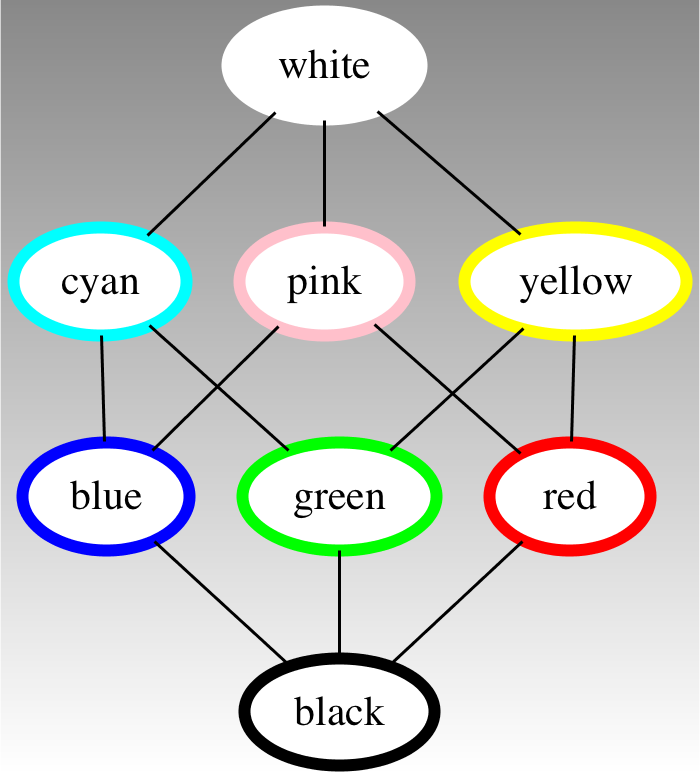
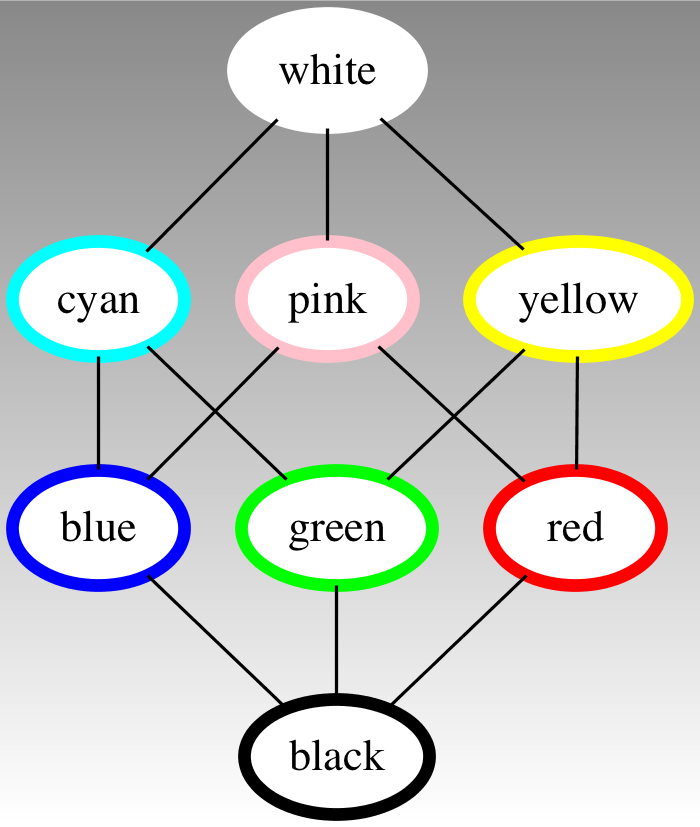
try native dot engine first, improve error handling for it

diff --git a/src/main/java/guru/nidi/graphviz/engine/GraphvizCmdLineEngine.java b/src/main/java/guru/nidi/graphviz/engine/GraphvizCmdLineEngine.java
@@ -37,9 +37,8 @@ import java.util.Optional;
 public class GraphvizCmdLineEngine extends AbstractGraphvizEngine {
     private static final Logger LOG = LoggerFactory.getLogger(AbstractGraphvizEngine.class);
 
-    private CommandRunner cmdRunner;
-    private String envPath;
-    private DefaultExecutor executor;
+    private final String envPath;
+    private final CommandRunner cmdRunner;
 
     private String dotOutputFilePath;
     private String dotOutputFileName;
@@ -55,11 +54,6 @@ public class GraphvizCmdLineEngine extends AbstractGraphvizEngine {
     public GraphvizCmdLineEngine(EngineInitListener engineInitListener, String envPath, DefaultExecutor executor) {
         super(false, engineInitListener);
         this.envPath = envPath;
-        this.executor = executor;
-    }
-
-    @Override
-    protected void doInit() throws GraphvizException {
         cmdRunner = new CommandBuilder()
                 .withShellWrapper(true)
                 .withCommandExecutor(executor)
@@ -67,9 +61,15 @@ public class GraphvizCmdLineEngine extends AbstractGraphvizEngine {
     }
 
     @Override
+    protected void doInit() throws GraphvizException {
+        if (!CommandRunner.isExecutableFound("dot", envPath)) {
+            throw new GraphvizException("'dot' command not found");
+        }
+    }
+
+    @Override
     protected String doExecute(String src, Options options) {
         final String engine = getEngineFromOptions(options);
-
         if (!CommandRunner.isExecutableFound(engine, envPath)) {
             throw new GraphvizException(engine + " command not found");
         }
@@ -88,10 +88,7 @@ public class GraphvizCmdLineEngine extends AbstractGraphvizEngine {
             // Run the command
             final String command = engine + " -T" + getFormatFromOptions(options)
                     + " " + dotfile.getAbsolutePath() + " -ooutfile.svg";
-            final int status = cmdRunner.exec(command, tempDirPath.toFile());
-            if (status != 0) {
-                throw new GraphvizException("Dot command didn't succeed");
-            }
+            cmdRunner.exec(command, tempDirPath.toFile());
 
             // Read output file from temp folder
             final byte[] encoded = Files.readAllBytes(tempDirPath.resolve("outfile.svg"));
@@ -99,8 +96,8 @@ public class GraphvizCmdLineEngine extends AbstractGraphvizEngine {
             FileUtils.deleteDirectory(tempDirPath.toFile());
 
             return new String(encoded, StandardCharsets.UTF_8);
-        } catch (IOException e) {
-            throw new GraphvizException("Failed to execute dot command", e);
+        } catch (IOException | InterruptedException e) {
+            throw new GraphvizException(e.getMessage(), e);
         }
     }
 

diff --git a/src/test/java/guru/nidi/graphviz/CodeAnalysisTest.java b/src/test/java/guru/nidi/graphviz/CodeAnalysisTest.java
@@ -41,6 +41,7 @@ import guru.nidi.graphviz.engine.GraphvizServerEngine;
 import guru.nidi.graphviz.engine.GraphvizV8Engine;
 import guru.nidi.graphviz.model.*;
 import guru.nidi.graphviz.parse.Parser;
+import guru.nidi.graphviz.service.CommandRunnerTest;
 import net.sourceforge.pmd.RulePriority;
 import org.junit.Test;
 
@@ -84,6 +85,7 @@ public class CodeAnalysisTest extends CodeAssertTest {
                 .because("It's ok",
                         In.clazz(AbstractGraphvizEngine.class).ignore("SC_START_IN_CTOR"),
                         In.clazz(MutableGraph.class).ignore("SE_COMPARATOR_SHOULD_BE_SERIALIZABLE"),
+                        In.loc("DefaultExecutor").ignore("DM_DEFAULT_ENCODING"),
                         In.loc("Communicator").ignore("RR_NOT_CHECKED"));
         return new FindBugsAnalyzer(AnalyzerConfig.maven().mainAndTest(), collector).analyze();
     }
@@ -103,6 +105,7 @@ public class CodeAnalysisTest extends CodeAssertTest {
                         In.clazz(CreationContext.class).ignore("AvoidThrowingRawExceptionTypes"),
                         In.loc("GraphvizServer").ignore("AvoidInstantiatingObjectsInLoops"),
                         In.clazz(Shape.class).ignore("AvoidFieldNameMatchingTypeName"),
+                        In.clazz(CommandRunnerTest.class).ignore("JUnitTestsShouldIncludeAssert"),
                         In.locs("Lexer", "Parser", "ImmutableGraph", "MutableGraph")
                                 .ignore("CyclomaticComplexity", "StdCyclomaticComplexity", "ModifiedCyclomaticComplexity", "NPathComplexity"),
                         In.classes(GraphvizJdkEngine.class, GraphvizV8Engine.class, GraphvizServerEngine.class, AbstractGraphvizEngine.class)
@@ -133,7 +136,7 @@ public class CodeAnalysisTest extends CodeAssertTest {
     protected CheckstyleResult analyzeCheckstyle() {
         final StyleEventCollector collector = new StyleEventCollector()
                 .apply(PredefConfig.minimalCheckstyleIgnore())
-                .just(In.locs("Color", "Arrow", "Rank", "RankDir", "Shape", "Token","Style").ignore("empty.line.separator"))
+                .just(In.locs("Color", "Arrow", "Rank", "RankDir", "Shape", "Token", "Style").ignore("empty.line.separator"))
                 .just(In.locs("Records", "Shape").ignore("name.invalidPattern"));
         final StyleChecks checks = PredefConfig.adjustedGoogleStyleChecks();
         return new CheckstyleAnalyzer(AnalyzerConfig.maven().main(), checks, collector).analyze();

diff --git a/src/main/java/guru/nidi/graphviz/service/DefaultExecutor.java b/src/main/java/guru/nidi/graphviz/service/DefaultExecutor.java
@@ -15,13 +15,11 @@
  */
 package guru.nidi.graphviz.service;
 
-import org.apache.commons.exec.CommandLine;
-import org.apache.commons.exec.DefaultExecuteResultHandler;
-import org.apache.commons.exec.ExecuteWatchdog;
-import org.apache.commons.exec.Executor;
+import org.apache.commons.exec.*;
 import org.slf4j.Logger;
 import org.slf4j.LoggerFactory;
 
+import java.io.ByteArrayOutputStream;
 import java.io.File;
 import java.io.IOException;
 
@@ -33,8 +31,8 @@ import java.io.IOException;
 public class DefaultExecutor {
     private static final Logger LOG = LoggerFactory.getLogger(DefaultExecutor.class);
 
-    public int execute(CommandLine cmd, File workingDirectory) throws InterruptedException, IOException {
-        LOG.info("STARTING COMMAND: " + cmd.toString());
+    public void execute(CommandLine cmd, File workingDirectory) throws InterruptedException, IOException {
+        LOG.info("executing command {}", cmd.toString());
 
         final ExecuteWatchdog watchdog = new ExecuteWatchdog(60 * 1000);
         final Executor executor = new org.apache.commons.exec.DefaultExecutor();
@@ -43,14 +41,21 @@ public class DefaultExecutor {
         if (workingDirectory != null) {
             executor.setWorkingDirectory(workingDirectory);
         }
-        LOG.debug("WORKING: " + executor.getWorkingDirectory());
+        LOG.debug("workdir: {}", executor.getWorkingDirectory());
 
         final DefaultExecuteResultHandler resultHandler = new DefaultExecuteResultHandler();
+        final ByteArrayOutputStream out = new ByteArrayOutputStream();
+        final ByteArrayOutputStream err = new ByteArrayOutputStream();
+        executor.setStreamHandler(new PumpStreamHandler(out, err));
         executor.execute(cmd, resultHandler);
         resultHandler.waitFor();
 
         final int exitCode = resultHandler.getExitValue();
-        LOG.info("END COMMAND: " + cmd.toString() + " - EXIT CODE " + exitCode);
-        return exitCode;
+        if (out.size() > 0) {
+            LOG.info(out.toString());
+        }
+        if (exitCode != 0) {
+            throw new IOException(err.size() == 0 ? "command '" + cmd + "' didn't succeed" : err.toString());
+        }
     }
 }

diff --git a/src/main/java/guru/nidi/graphviz/service/CommandRunner.java b/src/main/java/guru/nidi/graphviz/service/CommandRunner.java
@@ -42,34 +42,29 @@ public class CommandRunner {
         this.cmdExec = cmdExec;
     }
 
-    int exec(CommandLine cmd, File workingDirectory) {
-        try {
-            final CommandLine wrappedCmd = wrapperFunc.apply(cmd);
-            return cmdExec.execute(wrappedCmd, workingDirectory);
-        } catch (IOException | InterruptedException e) {
-            LOG.error("Problem executing {}", cmd, e);
-        }
-        return -1;
+    void exec(CommandLine cmd, File workDir) throws IOException, InterruptedException {
+        final CommandLine wrappedCmd = wrapperFunc.apply(cmd);
+        cmdExec.execute(wrappedCmd, workDir);
     }
 
-    public int exec(String cmd, File workingDirectory, String... args) {
-        return exec(cmd, workingDirectory, args, true);
+    public void exec(String cmd, File workDir, String... args) throws IOException, InterruptedException {
+        exec(cmd, workDir, args, true);
     }
 
-    private int exec(String cmd, File workingDirectory, String[] args, boolean handleQuoting) {
-        return exec(new CommandLine(cmd).addArguments(args, handleQuoting), workingDirectory);
+    private void exec(String cmd, File workDir, String[] args, boolean quote) throws IOException, InterruptedException {
+        exec(new CommandLine(cmd).addArguments(args, quote), workDir);
     }
 
-    private int exec(String cmd, File workingDirectory, List<String> args) {
-        return exec(cmd, workingDirectory, args.toArray(new String[args.size()]));
+    private void exec(String cmd, File workDir, List<String> args) throws IOException, InterruptedException {
+        exec(cmd, workDir, args.toArray(new String[args.size()]));
     }
 
-    int exec(String cmd, List<String> args) {
-        return exec(cmd, null, args);
+    void exec(String cmd, List<String> args) throws IOException, InterruptedException {
+        exec(cmd, null, args);
     }
 
-    int exec(String cmd) {
-        return exec(cmd, null, new String[0]);
+    void exec(String cmd) throws IOException, InterruptedException {
+        exec(cmd, null, new String[0]);
     }
 
     // Cross-platform way of finding an executable in the $PATH.

diff --git a/src/test/java/guru/nidi/graphviz/engine/EngineTest.java b/src/test/java/guru/nidi/graphviz/engine/EngineTest.java
@@ -32,8 +32,8 @@ import static org.hamcrest.CoreMatchers.startsWith;
 import static org.junit.Assert.assertThat;
 import static org.junit.Assert.assertTrue;
 import static org.mockito.Matchers.any;
+import static org.mockito.Mockito.doAnswer;
 import static org.mockito.Mockito.mock;
-import static org.mockito.Mockito.when;
 
 public class EngineTest {
     private static final String START1_4 =
@@ -135,16 +135,14 @@ public class EngineTest {
 
     private DefaultExecutor setUpFakeStubCommandExecutor() throws IOException, InterruptedException {
         final DefaultExecutor cmdExecutor = mock(DefaultExecutor.class);
-        when(cmdExecutor.execute(any(CommandLine.class), any(File.class)))
-                .thenAnswer(invocationOnMock -> {
-                    final File workingDirectory = invocationOnMock.getArgumentAt(1, File.class);
+        doAnswer(invocationOnMock -> {
+            final File workingDirectory = invocationOnMock.getArgumentAt(1, File.class);
 
-                    final File svgInput = new File(getClass().getClassLoader().getResource("outfile1.svg").getFile());
-                    final File svgOutputFile = new File(workingDirectory.getAbsolutePath() + "/outfile.svg");
-                    Files.copy(svgInput.toPath(), svgOutputFile.toPath());
-
-                    return 0;
-                });
+            final File svgInput = new File(getClass().getClassLoader().getResource("outfile1.svg").getFile());
+            final File svgOutputFile = new File(workingDirectory.getAbsolutePath() + "/outfile.svg");
+            Files.copy(svgInput.toPath(), svgOutputFile.toPath());
+            return null;
+        }).when(cmdExecutor).execute(any(CommandLine.class), any(File.class));
         return cmdExecutor;
     }
 

diff --git a/src/main/java/guru/nidi/graphviz/engine/GraphvizServerEngine.java b/src/main/java/guru/nidi/graphviz/engine/GraphvizServerEngine.java
@@ -18,7 +18,7 @@ package guru.nidi.graphviz.engine;
 import java.io.IOException;
 import java.net.Socket;
 
-public class GraphvizServerEngine extends AbstractJsGraphvizEngine {
+public class GraphvizServerEngine extends AbstractGraphvizEngine {
     public GraphvizServerEngine() {
         this(null);
     }
@@ -28,9 +28,9 @@ public class GraphvizServerEngine extends AbstractJsGraphvizEngine {
     }
 
     @Override
-    protected String jsExecute(String call) {
+    protected String doExecute(String src, Options options) {
         try {
-            return createSvg(call);
+            return createSvg(src); //TODO handle options
         } catch (IOException e) {
             throw new GraphvizException("Problem in communication with server", e);
         }
@@ -63,9 +63,9 @@ public class GraphvizServerEngine extends AbstractJsGraphvizEngine {
         }
     }
 
-    private String createSvg(String call) throws IOException {
+    private String createSvg(String src) throws IOException {
         return communicating(com -> {
-            com.writeContent(call);
+            com.writeContent(src);
             final String status = com.readStatus();
             final int len = com.readLen();
             final String content = com.readContent(len);

diff --git a/src/test/java/guru/nidi/graphviz/model/SimpleTest.java b/src/test/java/guru/nidi/graphviz/model/SimpleTest.java
@@ -20,6 +20,7 @@ import guru.nidi.graphviz.engine.GraphvizException;
 import org.junit.Test;
 
 import static guru.nidi.graphviz.engine.Format.SVG;
+import static org.hamcrest.CoreMatchers.containsString;
 import static org.hamcrest.CoreMatchers.startsWith;
 import static org.junit.Assert.*;
 
@@ -37,7 +38,7 @@ public class SimpleTest {
             Graphviz.fromString("g { a -> b; }").render(SVG).toString();
             fail();
         } catch (GraphvizException e) {
-            assertThat(e.getMessage(), startsWith("Error: syntax error in line 1 near 'g'"));
+            assertThat(e.getMessage(), containsString("syntax error in line 1 near 'g'"));
         }
     }
 }

diff --git a/src/test/java/guru/nidi/graphviz/service/CommandRunnerTest.java b/src/test/java/guru/nidi/graphviz/service/CommandRunnerTest.java
@@ -68,8 +68,7 @@ public class CommandRunnerTest {
                 .withShellWrapper(true)
                 .build();
 
-        final int result = cmdRunner.exec("echo", Arrays.asList("hello", "world"));
-        assertEquals(0, result);
+        cmdRunner.exec("echo", Arrays.asList("hello", "world"));
     }
 
     @Test
@@ -78,7 +77,6 @@ public class CommandRunnerTest {
                 .withShellWrapper(true)
                 .build();
 
-        final int result = cmdRunner.exec("env");
-        assertEquals(0, result);
+        cmdRunner.exec("env");
     }
 }

diff --git a/src/main/java/guru/nidi/graphviz/engine/Graphviz.java b/src/main/java/guru/nidi/graphviz/engine/Graphviz.java
@@ -48,9 +48,10 @@ public final class Graphviz {
     }
 
     public static void initEngine() {
-        engine = new GraphvizV8Engine(e ->
-                engine = new GraphvizServerEngine(e1 ->
-                        engine = new GraphvizJdkEngine()));
+        engine = new GraphvizCmdLineEngine(e1 ->
+                engine = new GraphvizV8Engine(e2 ->
+                        engine = new GraphvizServerEngine(e3 ->
+                                engine = new GraphvizJdkEngine())));
     }
 
     public static void releaseEngine() {
